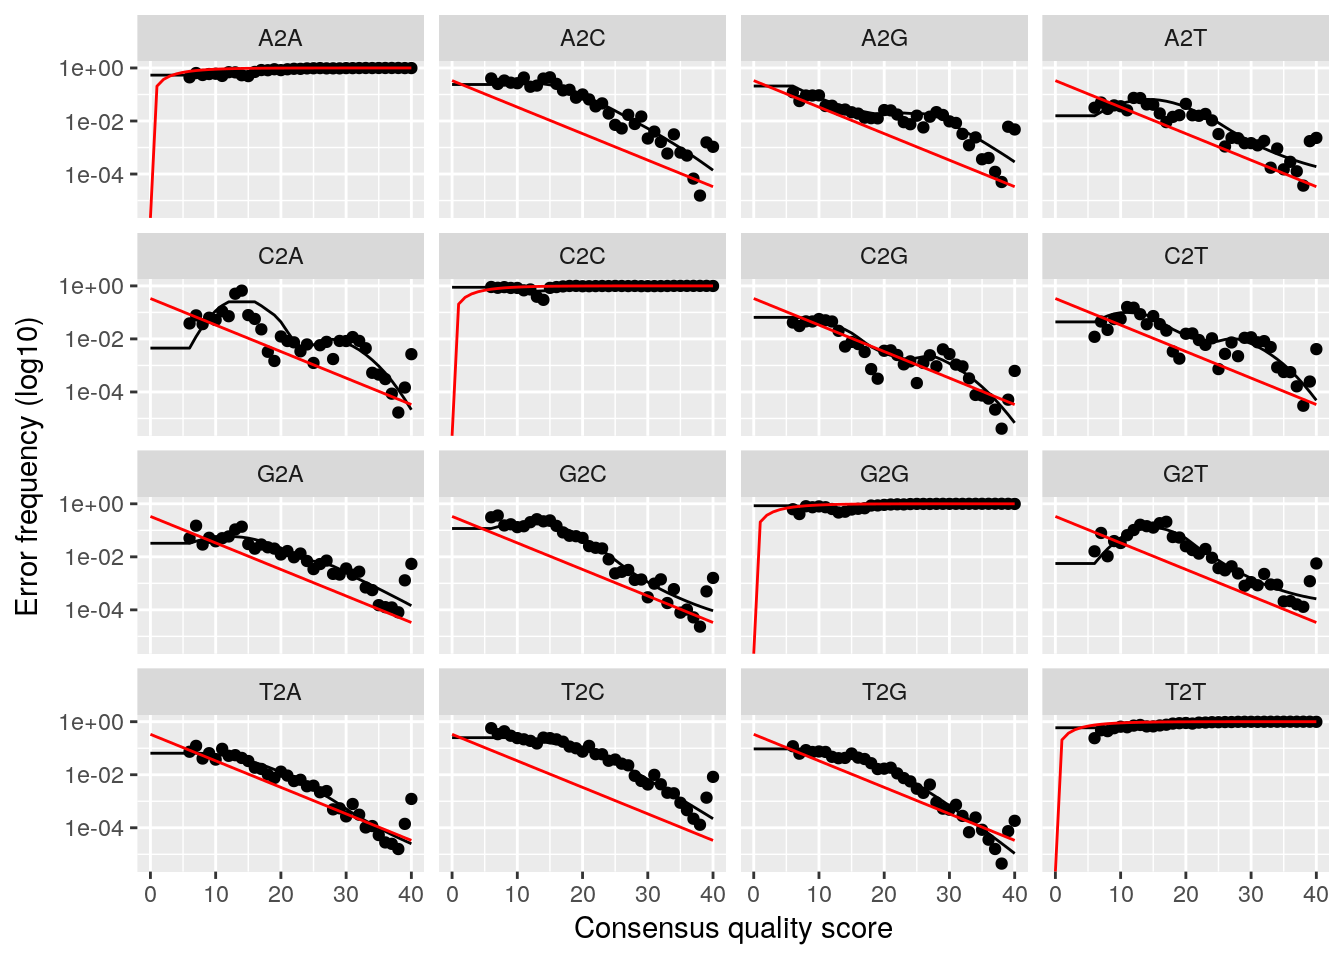
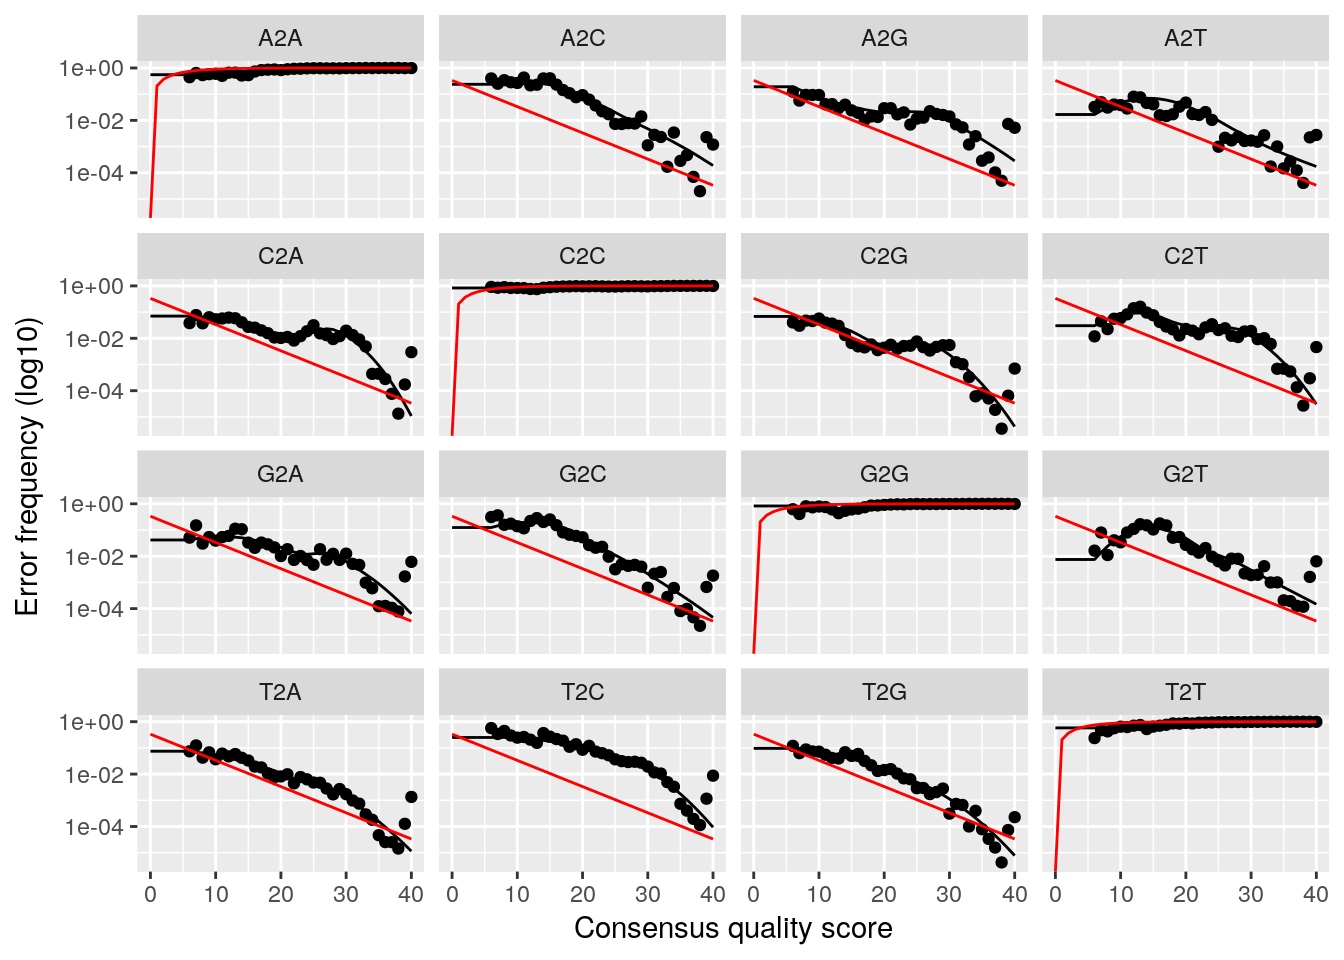
Fixed mock example

diff --git a/docs/mock_example.html b/docs/mock_example.html
@@ -341,13 +341,6 @@ div.tocify {
 </ol>
 <p>So loading <code>mbtools</code> should be the first step when running the analysis</p>
 <pre class="r"><code>library(mbtools)</code></pre>
-<pre><code>## Also loading: data.table 1.10.4
-## Also loading: ggplot2 2.2.1
-## Also loading: msa 1.8.0
-## Also loading: phangorn 2.2.0
-## Also loading: phyloseq 1.20.0
-## Also loading: ShortRead 1.34.0
-## Also loading: yaml 2.1.14</code></pre>
 </div>
 <div id="getting-the-mock-community-data" class="section level2">
 <h2>Getting the mock community data</h2>
@@ -402,27 +395,34 @@ fwd</code></pre>
 <pre><code>## Warning in dir.create(&quot;filtered&quot;): &#39;filtered&#39; already exists</code></pre>
 <pre class="r"><code>fwd_filt &lt;- file.path(&quot;filtered&quot;, basename(fwd))
 bwd_filt &lt;- file.path(&quot;filtered&quot;, basename(bwd))
-filterAndTrim(fwd, fwd_filt, bwd, bwd_filt, truncLen=c(150, 100),
-              compress=T, verbose=T, multithread=T)</code></pre>
+filt &lt;- filterAndTrim(fwd, fwd_filt, bwd, bwd_filt,
+                      trimLeft=10, truncLen=c(140, 100),
+                      compress=T, multithread=T)
+filt</code></pre>
+<pre><code>##                                                   reads.in reads.out
+## HMPMockV1.1.Even1_mock-forward-read.fastq.gz       1236898   1216195
+## HMPMockV1.1.Even2_mock-forward-read.fastq.gz        808308    797208
+## HMPMockV1.2.Staggered1_mock-forward-read.fastq.gz   838791    825665
+## HMPMockV1.2.Staggered2_mock-forward-read.fastq.gz   918465    905396</code></pre>
 <p>We will follow by dereplicating the reads which will yield the unique sequences in the samples.</p>
 <pre class="r"><code>derepFs &lt;- derepFastq(fwd_filt, verbose=TRUE)</code></pre>
 <pre><code>## Dereplicating sequence entries in Fastq file: filtered/HMPMockV1.1.Even1_mock-forward-read.fastq.gz</code></pre>
-<pre><code>## .Encountered 116490 unique sequences from 1216141 total sequences read.
+<pre><code>## .Encountered 95580 unique sequences from 1216195 total sequences read.
 ## Dereplicating sequence entries in Fastq file: filtered/HMPMockV1.1.Even2_mock-forward-read.fastq.gz
-## Encountered 92333 unique sequences from 797182 total sequences read.
+## Encountered 72797 unique sequences from 797208 total sequences read.
 ## Dereplicating sequence entries in Fastq file: filtered/HMPMockV1.2.Staggered1_mock-forward-read.fastq.gz
-## Encountered 96309 unique sequences from 825632 total sequences read.
+## Encountered 76415 unique sequences from 825665 total sequences read.
 ## Dereplicating sequence entries in Fastq file: filtered/HMPMockV1.2.Staggered2_mock-forward-read.fastq.gz
-## Encountered 87539 unique sequences from 905358 total sequences read.</code></pre>
+## Encountered 72114 unique sequences from 905396 total sequences read.</code></pre>
 <pre class="r"><code>derepRs &lt;- derepFastq(bwd_filt, verbose=TRUE)</code></pre>
 <pre><code>## Dereplicating sequence entries in Fastq file: filtered/HMPMockV1.1.Even1_mock-reverse-read.fastq.gz
-## .Encountered 123280 unique sequences from 1216141 total sequences read.
+## .Encountered 106375 unique sequences from 1216195 total sequences read.
 ## Dereplicating sequence entries in Fastq file: filtered/HMPMockV1.1.Even2_mock-reverse-read.fastq.gz
-## Encountered 76539 unique sequences from 797182 total sequences read.
+## Encountered 68054 unique sequences from 797208 total sequences read.
 ## Dereplicating sequence entries in Fastq file: filtered/HMPMockV1.2.Staggered1_mock-reverse-read.fastq.gz
-## Encountered 88797 unique sequences from 825632 total sequences read.
+## Encountered 80575 unique sequences from 825665 total sequences read.
 ## Dereplicating sequence entries in Fastq file: filtered/HMPMockV1.2.Staggered2_mock-reverse-read.fastq.gz
-## Encountered 82773 unique sequences from 905358 total sequences read.</code></pre>
+## Encountered 70459 unique sequences from 905396 total sequences read.</code></pre>
 <pre class="r"><code># Name the derep-class objects by the sample names
 names(derepFs) &lt;- names(derepRs) &lt;- names(barcodes)</code></pre>
 </div>
@@ -431,24 +431,23 @@ names(derepFs) &lt;- names(derepRs) &lt;- names(barcodes)</code></pre>
 <p>With the trimmed and dereplicated reads we can now advance to running the dada2 algorithm to discover the unique sequence variants in our reads. We will do this separately for the forward and backward reads.</p>
 <pre class="r"><code>dadaFs &lt;- dada(derepFs, err=NULL, selfConsist = TRUE, multithread = TRUE)</code></pre>
 <pre><code>## Initializing error rates to maximum possible estimate.
-## Sample 1 - 1216141 reads in 116490 unique sequences.
-## Sample 2 - 797182 reads in 92333 unique sequences.
-## Sample 3 - 825632 reads in 96309 unique sequences.
-## Sample 4 - 905358 reads in 87539 unique sequences.
+## Sample 1 - 1216195 reads in 95580 unique sequences.
+## Sample 2 - 797208 reads in 72797 unique sequences.
+## Sample 3 - 825665 reads in 76415 unique sequences.
+## Sample 4 - 905396 reads in 72114 unique sequences.
 ##    selfConsist step 2 
 ##    selfConsist step 3 
 ##    selfConsist step 4 
 ##    selfConsist step 5 
-##    selfConsist step 6 
 ## 
 ## 
-## Convergence after  6  rounds.</code></pre>
+## Convergence after  5  rounds.</code></pre>
 <pre class="r"><code>dadaRs &lt;- dada(derepRs, err=NULL, selfConsist = TRUE, multithread = TRUE)</code></pre>
 <pre><code>## Initializing error rates to maximum possible estimate.
-## Sample 1 - 1216141 reads in 123280 unique sequences.
-## Sample 2 - 797182 reads in 76539 unique sequences.
-## Sample 3 - 825632 reads in 88797 unique sequences.
-## Sample 4 - 905358 reads in 82773 unique sequences.
+## Sample 1 - 1216195 reads in 106375 unique sequences.
+## Sample 2 - 797208 reads in 68054 unique sequences.
+## Sample 3 - 825665 reads in 80575 unique sequences.
+## Sample 4 - 905396 reads in 70459 unique sequences.
 ##    selfConsist step 2 
 ##    selfConsist step 3 
 ##    selfConsist step 4 
@@ -464,11 +463,13 @@ names(derepFs) &lt;- names(derepRs) &lt;- names(barcodes)</code></pre>
 <pre><code>## Warning: Transformation introduced infinite values in continuous y-axis</code></pre>
 <p><img src="mock_example_files/figure-html/unnamed-chunk-9-2.png" width="672" /></p>
 <p>We will now quantify the sequence variants for both samples and combine them. Normally we would try to actually combine the forward and backwards reads into larger reads and quantify those, however our read qualities were so bad in this data set that there is no sufficient overlap. Thus, we will treat the forward and backward reads independently.</p>
-<pre class="r"><code>seqtab &lt;- makeSequenceTable(mergePairs(dadaFs, derepFs, dadaRs, derepRs))</code></pre>
+<pre class="r"><code>seqtab_fwd &lt;- makeSequenceTable(dadaFs)
+seqtab_bwd &lt;- makeSequenceTable(dadaRs)
+seqtab &lt;- cbind(seqtab_fwd, seqtab_bwd)</code></pre>
 <p>Finally, we will also remove bimeras (reads that are combinations of two other reads) from the data set. We will also save the sequence table for later use.</p>
 <pre class="r"><code>seqtab_nochim &lt;- removeBimeraDenovo(seqtab, verbose=TRUE)</code></pre>
 <pre><code>## As of the 1.4 release, the default method changed to consensus (from pooled).</code></pre>
-<pre><code>## Identified 0 bimeras out of 1 input sequences.</code></pre>
+<pre><code>## Identified 270 bimeras out of 365 input sequences.</code></pre>
 <pre class="r"><code>saveRDS(seqtab_nochim, &quot;svs.rds&quot;)</code></pre>
 </div>
 <div id="taxonomy-assignment-and-validation" class="section level2">
@@ -478,15 +479,30 @@ names(derepFs) &lt;- names(derepRs) &lt;- names(barcodes)</code></pre>
     download.file(&quot;https://zenodo.org/record/158955/files/gg_13_8_train_set_97.fa.gz&quot;,
         &quot;gg_138.fa.gz&quot;)</code></pre>
 <p>Taxonomies can now be assigned by</p>
-<pre class="r"><code>taxa &lt;- assignTaxonomy(seqtab_nochim, &quot;gg_138.fa.gz&quot;)
+<pre class="r"><code>taxa &lt;- assignTaxonomy(seqtab_nochim, &quot;gg_138.fa.gz&quot;, multithread=TRUE)
 colnames(taxa) &lt;- c(&quot;Kingdom&quot;, &quot;Phylum&quot;, &quot;Class&quot;, &quot;Order&quot;, &quot;Family&quot;, &quot;Genus&quot;, &quot;Species&quot;)
 head(unname(taxa))</code></pre>
-<pre><code>##      [,1]         [,2]               [,3]                
-## [1,] &quot;k__Archaea&quot; &quot;p__Euryarchaeota&quot; &quot;c__Methanobacteria&quot;
-##      [,4]                    [,5]                    
-## [1,] &quot;o__Methanobacteriales&quot; &quot;f__Methanobacteriaceae&quot;
-##      [,6]                    [,7] 
-## [1,] &quot;g__Methanobrevibacter&quot; &quot;s__&quot;</code></pre>
+<pre><code>##      [,1]          [,2]                [,3]                    
+## [1,] &quot;k__Bacteria&quot; &quot;p__Firmicutes&quot;     &quot;c__Bacilli&quot;            
+## [2,] &quot;k__Bacteria&quot; &quot;p__Proteobacteria&quot; &quot;c__Gammaproteobacteria&quot;
+## [3,] &quot;k__Bacteria&quot; &quot;p__Firmicutes&quot;     &quot;c__Bacilli&quot;            
+## [4,] &quot;k__Bacteria&quot; &quot;p__Proteobacteria&quot; &quot;c__Alphaproteobacteria&quot;
+## [5,] &quot;k__Bacteria&quot; &quot;p__Proteobacteria&quot; &quot;c__Gammaproteobacteria&quot;
+## [6,] &quot;k__Bacteria&quot; &quot;p__[Thermi]&quot;       &quot;c__Deinococci&quot;         
+##      [,4]                   [,5]                    [,6]               
+## [1,] &quot;o__Bacillales&quot;        &quot;f__Staphylococcaceae&quot;  &quot;g__Staphylococcus&quot;
+## [2,] &quot;o__Pseudomonadales&quot;   &quot;f__Moraxellaceae&quot;      &quot;g__Acinetobacter&quot; 
+## [3,] &quot;o__Lactobacillales&quot;   &quot;f__Streptococcaceae&quot;   &quot;g__Streptococcus&quot; 
+## [4,] &quot;o__Rhodobacterales&quot;   &quot;f__Rhodobacteraceae&quot;   &quot;g__Rhodobacter&quot;   
+## [5,] &quot;o__Enterobacteriales&quot; &quot;f__Enterobacteriaceae&quot; &quot;g__Escherichia&quot;   
+## [6,] &quot;o__Deinococcales&quot;     &quot;f__Deinococcaceae&quot;     &quot;g__Deinococcus&quot;   
+##      [,7]            
+## [1,] &quot;s__&quot;           
+## [2,] &quot;s__guillouiae&quot; 
+## [3,] &quot;s__&quot;           
+## [4,] &quot;s__sphaeroides&quot;
+## [5,] &quot;s__coli&quot;       
+## [6,] &quot;s__&quot;</code></pre>
 <p>Since we used the green genes database there are some assignments which are actually empty such as the “s__&quot; species. We will convert them to their correct NA value.</p>
 <pre class="r"><code>taxa[grep(&quot;__$&quot;, taxa)] &lt;- NA</code></pre>
 <p>The taxa assignments can be combined with quantifications using the phyloseq package.</p>
@@ -494,31 +510,24 @@ head(unname(taxa))</code></pre>
                tax_table(taxa))</code></pre>
 <p>We can now compare this table to our reference table from mockrobiota. We will start by quantifying how many of the real taxa were found in our taxonomy assignment.</p>
 <pre class="r"><code>taxa_metrics(tax_table(ps), tax_table(mock$ps_gg))</code></pre>
-<pre><code>##     level precision     recall        F1 n_exp n_ref
-## 1 Kingdom         1 0.50000000 0.6666667     1     2
-## 2  Phylum         1 0.16666667 0.2857143     1     6
-## 3   Class         1 0.10000000 0.1818182     1    10
-## 4   Order         1 0.08333333 0.1538462     1    12
-## 5  Family         1 0.05555556 0.1052632     1    18
-## 6   Genus         1 0.05555556 0.1052632     1    18
-## 7 Species       NaN 0.00000000       NaN     0    20</code></pre>
+<pre><code>##     level precision recall        F1 n_exp n_ref
+## 1 Kingdom 1.0000000   1.00 1.0000000     2     2
+## 2  Phylum 0.8571429   1.00 0.9230769     7     6
+## 3   Class 0.8333333   1.00 0.9090909    12    10
+## 4   Order 0.7058824   1.00 0.8275862    17    12
+## 5  Family 0.6923077   1.00 0.8181818    26    18
+## 6   Genus 0.6923077   1.00 0.8181818    26    18
+## 7 Species 0.4666667   0.35 0.4000000    15    20</code></pre>
 <p>As we can see we are pretty good in identifying the taxa in our samples. However, how do we perform in terms of taxa quantities? We will start by stratifying across the samples:</p>
 <pre class="r"><code>tq &lt;- taxa_quants(ps, mock$ps_gg, normalize = TRUE)
 head(tq)</code></pre>
-<pre><code>##     level                        name                 sample measured
-## 1 Kingdom                  k__Archaea      HMPMockV1.1.Even1        1
-## 2 Kingdom                  k__Archaea      HMPMockV1.1.Even2        0
-## 3 Kingdom                  k__Archaea HMPMockV1.2.Staggered1        0
-## 4 Kingdom                  k__Archaea HMPMockV1.2.Staggered2        0
-## 5  Phylum k__Archaea;p__Euryarchaeota      HMPMockV1.1.Even1        1
-## 6  Phylum k__Archaea;p__Euryarchaeota      HMPMockV1.1.Even2        0
-##    reference
-## 1 0.04761905
-## 2 0.04761905
-## 3 0.21436227
-## 4 0.21436227
-## 5 0.04761905
-## 6 0.04761905</code></pre>
+<pre><code>##     level        name                 sample    measured  reference
+## 1 Kingdom k__Bacteria      HMPMockV1.1.Even1 0.952838345 0.95238095
+## 2 Kingdom  k__Archaea      HMPMockV1.1.Even1 0.018463343 0.04761905
+## 3 Kingdom k__Bacteria      HMPMockV1.1.Even2 0.982687224 0.95238095
+## 4 Kingdom  k__Archaea      HMPMockV1.1.Even2 0.001397180 0.04761905
+## 5 Kingdom k__Bacteria HMPMockV1.2.Staggered1 0.982101106 0.78563773
+## 6 Kingdom  k__Archaea HMPMockV1.2.Staggered1 0.001579063 0.21436227</code></pre>
 <p><code>taxa_quants</code> already quantifies across a possible levels of taxonomy. So we can plot the performance stratified by sample with</p>
 <pre class="r"><code>ggplot(tq, aes(x=reference, y=measured, col=level)) +
     geom_abline(alpha=0.5) +
@@ -541,13 +550,13 @@ head(tq)</code></pre>
 ##  Pearson&#39;s product-moment correlation
 ## 
 ## data:  tq$measured and tq$reference
-## t = -3.3166, df = 22, p-value = 0.003136
+## t = 27.112, df = 290, p-value &lt; 2.2e-16
 ## alternative hypothesis: true correlation is not equal to 0
 ## 95 percent confidence interval:
-##  -0.7954790 -0.2267681
+##  0.8108459 0.8764111
 ## sample estimates:
-##        cor 
-## -0.5773503</code></pre>
+##      cor 
+## 0.846815</code></pre>
 <p>So we get a correlation of about 0.85 which is okay for the bad quality reads we used here.</p>
 </div>
 

diff --git a/docs/about.html b/docs/about.html
@@ -244,16 +244,55 @@ $(document).ready(function () {
 ## [11] LC_MEASUREMENT=en_US.UTF-8 LC_IDENTIFICATION=C       
 ## 
 ## attached base packages:
-## [1] stats     graphics  grDevices utils     datasets  methods   base     
+## [1] stats4    parallel  stats     graphics  grDevices utils     datasets 
+## [8] methods   base     
 ## 
 ## other attached packages:
-## [1] prompt_1.0.0
+##  [1] yaml_2.1.14                ShortRead_1.34.1          
+##  [3] GenomicAlignments_1.12.2   SummarizedExperiment_1.6.3
+##  [5] DelayedArray_0.2.7         matrixStats_0.52.2        
+##  [7] Biobase_2.36.2             Rsamtools_1.28.0          
+##  [9] GenomicRanges_1.28.5       GenomeInfoDb_1.12.2       
+## [11] BiocParallel_1.10.1        phyloseq_1.20.0           
+## [13] phangorn_2.2.0             ape_4.1                   
+## [15] msa_1.8.0                  Biostrings_2.44.2         
+## [17] XVector_0.16.0             IRanges_2.10.3            
+## [19] S4Vectors_0.14.4           BiocGenerics_0.22.0       
+## [21] ggplot2_2.2.1              data.table_1.10.4         
+## [23] dada2_1.4.0                Rcpp_0.12.12              
+## [25] mbtools_0.5.3              prompt_1.0.0              
 ## 
 ## loaded via a namespace (and not attached):
-##  [1] compiler_3.4.1   backports_1.1.0  magrittr_1.5     rprojroot_1.2   
-##  [5] clisymbols_1.2.0 tools_3.4.1      htmltools_0.3.6  yaml_2.1.14     
-##  [9] Rcpp_0.12.12     crayon_1.3.2     stringi_1.1.5    rmarkdown_1.6   
-## [13] knitr_1.17       stringr_1.2.0    digest_0.6.12    evaluate_0.10.1</code></pre>
+##  [1] jsonlite_1.5            splines_3.4.1          
+##  [3] foreach_1.4.3           R.utils_2.5.0          
+##  [5] RcppParallel_4.3.20     latticeExtra_0.6-28    
+##  [7] GenomeInfoDbData_0.99.0 backports_1.1.0        
+##  [9] lattice_0.20-35         quadprog_1.5-5         
+## [11] digest_0.6.12           RColorBrewer_1.1-2     
+## [13] colorspace_1.3-2        htmltools_0.3.6        
+## [15] Matrix_1.2-10           R.oo_1.21.0            
+## [17] plyr_1.8.4              clisymbols_1.2.0       
+## [19] pkgconfig_2.0.1         zlibbioc_1.22.0        
+## [21] scales_0.5.0            tibble_1.3.4           
+## [23] mgcv_1.8-17             pbapply_1.3-3          
+## [25] lazyeval_0.2.0          survival_2.41-3        
+## [27] magrittr_1.5            crayon_1.3.2           
+## [29] evaluate_0.10.1         R.methodsS3_1.7.1      
+## [31] nlme_3.1-131            MASS_7.3-47            
+## [33] hwriter_1.3.2           vegan_2.4-4            
+## [35] tools_3.4.1             stringr_1.2.0          
+## [37] munsell_0.4.3           cluster_2.0.6          
+## [39] ade4_1.7-8              compiler_3.4.1         
+## [41] rlang_0.1.2             rhdf5_2.20.0           
+## [43] grid_3.4.1              RCurl_1.95-4.8         
+## [45] iterators_1.0.8         biomformat_1.4.0       
+## [47] igraph_1.1.2            labeling_0.3           
+## [49] bitops_1.0-6            rmarkdown_1.6          
+## [51] gtable_0.2.0            codetools_0.2-15       
+## [53] multtest_2.32.0         reshape2_1.4.2         
+## [55] knitr_1.17              fastmatch_1.1-0        
+## [57] rprojroot_1.2           permute_0.9-4          
+## [59] stringi_1.1.5</code></pre>
 </div>
 
 

diff --git a/docs/hitdb_example.html b/docs/hitdb_example.html
@@ -349,20 +349,27 @@ div.tocify {
 <p>We will load the sequence table we created in the mock example.</p>
 <pre class="r"><code>seqtab &lt;- readRDS(&quot;svs.rds&quot;)</code></pre>
 <p>Now we assign the taxonomy using HITdb</p>
-<pre class="r"><code>library(dada2)</code></pre>
-<pre><code>## Loading required package: Rcpp</code></pre>
-<pre class="r"><code>taxa &lt;- assignTaxonomy(seqtab, hitdb)
+<pre class="r"><code>library(dada2)
+taxa &lt;- assignTaxonomy(seqtab, hitdb)
 colnames(taxa) &lt;- c(&quot;Phylum&quot;, &quot;Class&quot;, &quot;Order&quot;, &quot;Family&quot;, &quot;Genus&quot;, &quot;Species&quot;)</code></pre>
 <p>Don’t forget to assign the column names as we did here since Dada2 will assign incorrect ones by default.</p>
 <p>And we are done :)</p>
 <pre class="r"><code>rownames(taxa) &lt;- NULL  # drop the sequences for now
 head(taxa)</code></pre>
-<pre><code>##      Phylum          Class             Order               
-## [1,] &quot;Euryarchaeota&quot; &quot;Methanobacteria&quot; &quot;Methanobacteriales&quot;
-##      Family                Genus               
-## [1,] &quot;Methanobacteriaceae&quot; &quot;Methanobrevibacter&quot;
-##      Species                              
-## [1,] &quot;Methanobrevibacter_smithii_U55233.1&quot;</code></pre>
+<pre><code>##      Phylum                Class                 Order              
+## [1,] &quot;Firmicutes&quot;          &quot;Bacilli&quot;             &quot;Bacillales&quot;       
+## [2,] &quot;Proteobacteria&quot;      &quot;Gammaproteobacteria&quot; &quot;Pseudomonadales&quot;  
+## [3,] &quot;Firmicutes&quot;          &quot;Bacilli&quot;             &quot;Lactobacillales&quot;  
+## [4,] &quot;Proteobacteria&quot;      &quot;Alphaproteobacteria&quot; &quot;Rhodobacterales&quot;  
+## [5,] &quot;Proteobacteria&quot;      &quot;Gammaproteobacteria&quot; &quot;Enterobacteriales&quot;
+## [6,] &quot;Deinococcus-Thermus&quot; &quot;Deinococci&quot;          &quot;Deinococcales&quot;    
+##      Family               Genus            Species                
+## [1,] &quot;Staphylococcaceae&quot;  &quot;Staphylococcus&quot; NA                     
+## [2,] &quot;Moraxellaceae&quot;      &quot;Acinetobacter&quot;  NA                     
+## [3,] &quot;Streptococcaceae&quot;   &quot;Streptococcus&quot;  &quot;Streptococcus_mutans&quot; 
+## [4,] &quot;Rhodobacteraceae&quot;   &quot;Paracoccus&quot;     NA                     
+## [5,] &quot;Enterobacteriaceae&quot; NA               NA                     
+## [6,] &quot;Deinococcaceae&quot;     &quot;Deinococcus&quot;    &quot;Deinococcus_aquaticus&quot;</code></pre>
 </div>
 
 
